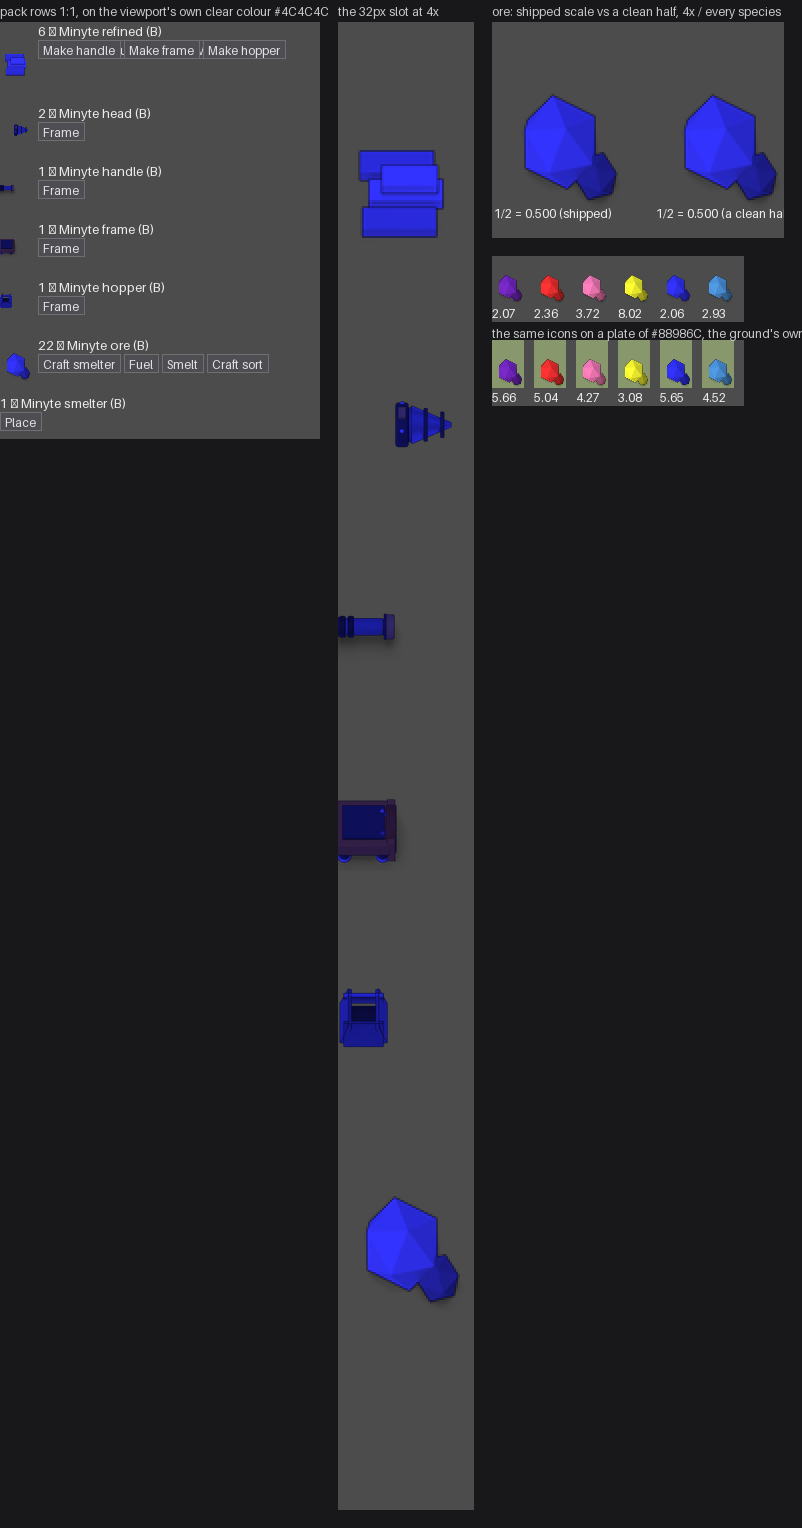
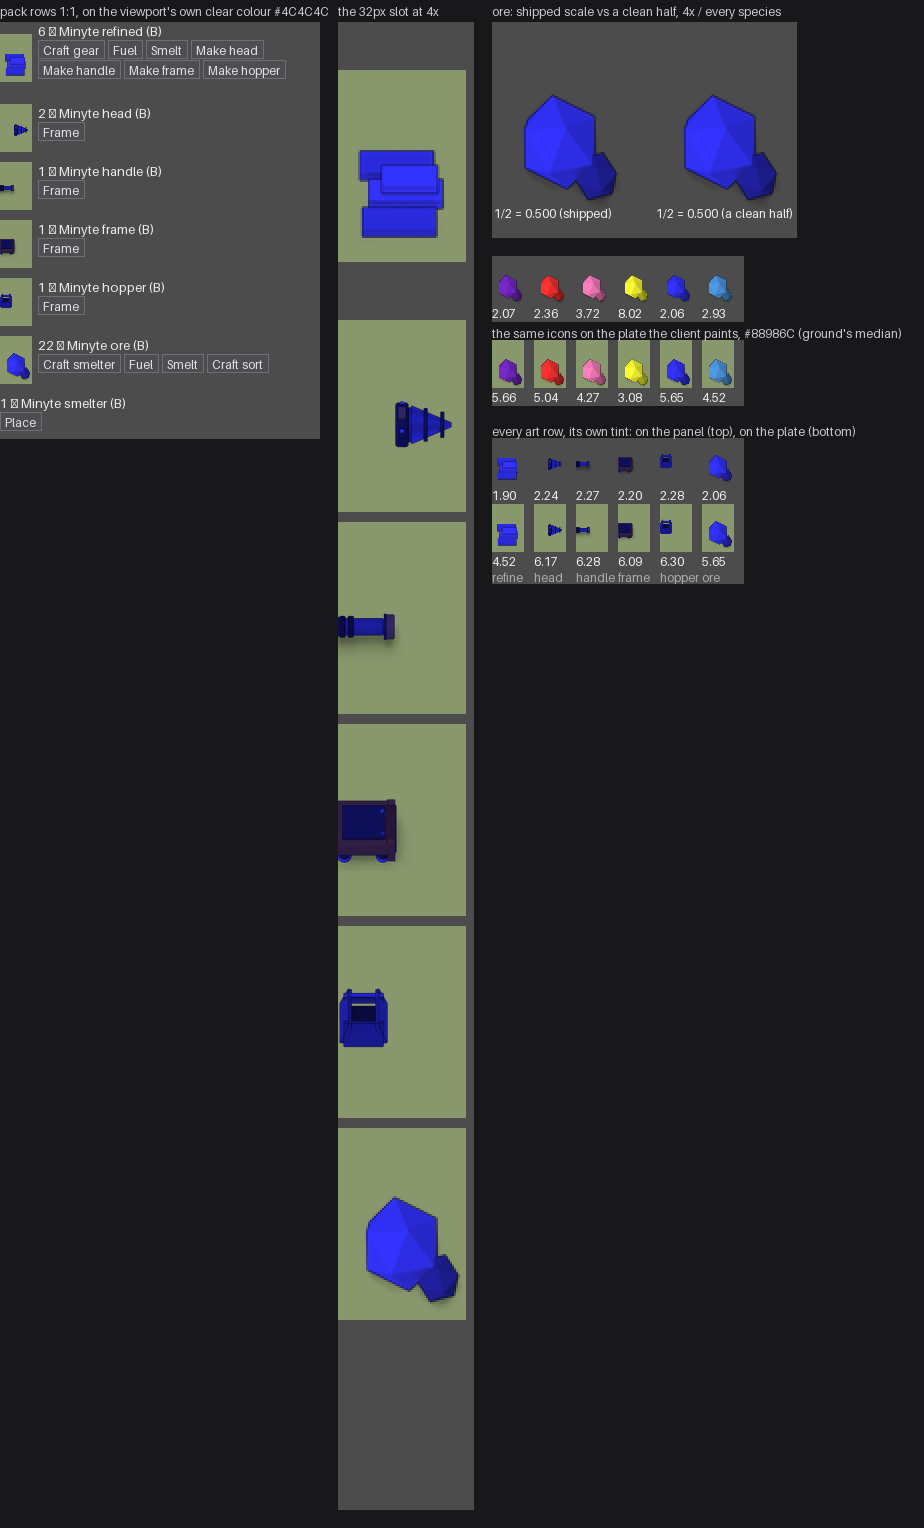
The review sheet shows the plate the client paints (ASSA-71)
Takes the plate colour from the layout probe instead of recomputing
ground.png's median, so the picture reports what the engine did like every
other number in the file; adds Maren's box 4 (every art row on both
surfaces, parts included); and fixes two things that made the sheet lie
about itself -- seven verbs drawn on top of each other on the refined row,
and three captions running off their panels' right edges.

Changed region(s): [[0.0, 0.0, 0.9975, 1.0]]

diff --git a/sim-game/art/pack_icon_sheet.py b/sim-game/art/pack_icon_sheet.py
@@ -77,6 +77,29 @@ def frame_of(entry):
     return sheet.crop((int(x), int(y), int(x + w), int(y + h)))
 
 
+def plate_of(entry):
+    """The slot plate the ENGINE painted behind this icon, or None when it painted none.
+
+    READ OFF THE LAYOUT JSON, NOT RECOMPUTED FROM `ground.png`. This script used to open the
+    ground sheet and take its median itself. That was honest while no plate existed -- it was
+    drawing a proposal -- and became a trap the moment one did, because it would have gone on
+    showing a correct-looking plate even if the client never read `ui_theme.json`, never applied
+    the StyleBoxFlat, or applied some other colour. The picture would have agreed with the
+    pipeline while disagreeing with the game. That is panel 3's stale-caption bug with the
+    halves swapped, and every other number in this file is already what the engine did.
+    """
+    h = entry["icon"].get("plate") or ""
+    if len(h) < 6:
+        return None
+    return tuple(int(h[i:i + 2], 16) for i in (0, 2, 4))
+
+
+def plate_rect_of(entry, row_h):
+    """The plate's laid-out size, falling back to the icon box when there is no plate."""
+    rect = entry["icon"].get("plate_rect") or []
+    return (float(rect[0]), float(rect[1])) if len(rect) == 2 else (ICON, float(row_h))
+
+
 def nearest_blit(dst, frame, tint, dest_x, dest_y, dest_w, dest_h, zoom=1):
     """Draw `frame` into `dst` the way a TextureRect with NEAREST does, tinted by `modulate`.
 
@@ -154,19 +177,40 @@ for r in ROWS:
         s = min(ICON / r["icon"]["frame"][0], rh / r["icon"]["frame"][1])
         assert abs(s - r["icon"]["scale"]) < 1e-6, (s, r["icon"]["scale"])
         frame = frame_of(r)
+        # THE SLOT PLATE, BEFORE THE ICON, so the ink composites over what it really sits on
+        # (ASSA-71). The plate is `SIZE_SHRINK_CENTER` in the row, so it is centred on the row's
+        # own centre -- which is the same centre the icon is drawn on, and why a 72px refined row
+        # still shows a 48px plate. Drawn first and not merely measured: an antialiased edge
+        # blends with its background, so measuring the ink over the clear colour and then
+        # claiming a plate was behind it would be a different picture from the one that ships.
+        base = BG
+        plate_c = plate_of(r)
+        if plate_c is not None:
+            pw, ph = plate_rect_of(r, rh)
+            py = y + (rh - ph) / 2.0
+            d.rectangle([0, int(round(py)), int(round(pw)) - 1, int(round(py + ph)) - 1],
+                        fill=plate_c)
+            base = plate_c
         ink = nearest_blit(column, frame, tint_of(r), (ICON - dw) / 2.0, y + (rh - dh) / 2.0, dw, dh)
-        report.append((r["line"], r["icon"], ink, ink_bbox(frame), frame.size))
+        report.append((r["line"], r["icon"], ink, ink_bbox(frame), frame.size, base))
         x = ICON + SEP
     else:
-        report.append((r["line"], None, [], None, None))
+        report.append((r["line"], None, [], None, None, BG))
     d.text((x, y + 1), r["line"], font=f13, fill=(235, 235, 235))
-    vx = x
+    # WRAP ONTO A SECOND LINE, which is what the row itself does. This used to reset `vx` to the
+    # left margin WITHOUT moving down, so a row with more verbs than fit drew them on top of each
+    # other: the refined row affords seven and only the last three survived, under a heading
+    # saying this panel is the pack as the engine draws it. The engine gives that row a height of
+    # 72 against everyone else's 48 precisely BECAUSE it takes two lines -- the layout JSON was
+    # carrying the evidence the picture was contradicting.
+    vx, vy = x, y + 18
     for verb in r["verbs"]:
         w = int(d.textlength(verb, font=f12)) + 10
         if vx + w > PANEL:
             vx = x
-        d.rectangle([vx, y + 18, vx + w, y + 36], fill=(78, 78, 82), outline=(110, 110, 115))
-        d.text((vx + 5, y + 21), verb, font=f12, fill=(225, 225, 230))
+            vy += 20
+        d.rectangle([vx, vy, vx + w, vy + 18], fill=(78, 78, 82), outline=(110, 110, 115))
+        d.text((vx + 5, vy + 3), verb, font=f12, fill=(225, 225, 230))
         vx += w + 4
     y += rh + 10
 
@@ -180,6 +224,14 @@ for r in ROWS:
     rh = int(r["row_size"][1])
     if "icon" in r:
         dw, dh = r["icon"]["drawn"]
+        # The plate at 4x too, or this panel shows the slot on a surface the game never draws.
+        plate_c = plate_of(r)
+        if plate_c is not None:
+            pw, ph = plate_rect_of(r, rh)
+            py = y + (rh - ph) / 2.0
+            ImageDraw.Draw(zoomed).rectangle(
+                [0, int(round(py * ZOOM)), int(round(pw * ZOOM)) - 1,
+                 int(round((py + ph) * ZOOM)) - 1], fill=plate_c)
         nearest_blit(zoomed, frame_of(r), tint_of(r), (ICON - dw) / 2.0, y + (rh - dh) / 2.0,
                      dw, dh, zoom=ZOOM)
     # IN SOURCE UNITS: `nearest_blit` multiplies by `zoom` itself, and adding zoomed pixels here
@@ -190,7 +242,14 @@ for r in ROWS:
 ore = next(r for r in ROWS if "ore" in r["line"])
 ore_frame = frame_of(ore)
 fw, fh = ore_frame.size
-cmp_w = 2 * int(ICON) * ZOOM + 36
+# WIDE ENOUGH FOR ITS OWN RIGHT-HAND LABEL, not just for the two gems. At 2*32*4+36 the panel was
+# 292px and "1/2 = 0.500 (a clean half)" starting at x=164 needed 294, so the sheet explaining the
+# shipped scale lost the last two characters of the explanation. Same bug as the sheet width, one
+# level down: a picture sized for the pictures and not for the words under them.
+CAP_RIGHT = "1/2 = 0.500 (a clean half)"
+_right_x = int(ICON) * ZOOM + 36
+cmp_w = max(2 * int(ICON) * ZOOM + 36,
+            _right_x + int(ImageDraw.Draw(Image.new("RGB", (1, 1))).textlength(CAP_RIGHT, font=f12)) + 4)
 cmp_h = 48 * ZOOM + 24
 compare = Image.new("RGB", (cmp_w, cmp_h), BG)
 nearest_blit(compare, ore_frame, tint_of(ore), 1.0, 1.0, ore["icon"]["drawn"][0],
@@ -210,8 +269,7 @@ dc.text((2, 46 * ZOOM),
          if _shipped and abs(_inverse - round(_inverse)) < 1e-4
          else "%.3f = 1/%.3f (shipped)" % (_shipped, _inverse)),
         font=f12, fill=(240, 240, 240))
-dc.text((int(ICON) * ZOOM + 36, 46 * ZOOM), "1/2 = 0.500 (a clean half)",
-        font=f12, fill=(240, 240, 240))
+dc.text((_right_x, 46 * ZOOM), CAP_RIGHT, font=f12, fill=(240, 240, 240))
 
 # ---------------------------------------------------- panel 4: every species, the same ore icon
 sp_w = (int(ICON) + 10) * len(TINTS)
@@ -231,11 +289,18 @@ for i, hexv in enumerate(TINTS):
 # ------------------------------------------- panel 5: the same icons on a PLATE of the rock they
 # were lit against. The sheets are drawn species-neutral ON LIGHT ROCK (ASSA-19/20) and every
 # measurement I have made of them composited them over light rock; the HUD panel is mid-grey, which
-# is a surface the art has never been judged on. The plate colour is READ FROM `ground.png` (its
-# median opaque pixel), not picked: it is literally the ground the game draws under everything.
-ground = Image.open(SPRITES / "ground.png").convert("RGBA")
-gpx = [q[:3] for q in list(ground.getdata()) if q[3] > 200]
-PLATE = tuple(sorted(c[i] for c in gpx)[len(gpx) // 2] for i in range(3))
+# is a surface the art has never been judged on. The plate colour is not picked: it is the ground's
+# own median, so the pack row and the map show the same object (Maren's ruling, ASSA-71).
+#
+# TAKEN FROM THE ENGINE NOW, not from `ground.png`. See `plate_of`.
+PLATE = plate_of(ore)
+PLATE_SHIPPED = PLATE is not None
+if PLATE is None:
+    # The engine painted no plate behind the icon it laid out. Fall back to what the PIPELINE
+    # ships so this panel still has a proposal to show -- and say which in the caption, because a
+    # panel captioned as the client's doing while showing a colour the client ignored is exactly
+    # the failure Limpet fixed in panel 3.
+    PLATE = tuple(int(v) for v in json.load(open(SPRITES / "ui_theme.json"))["pack_icon_plate_rgb"])
 plate = Image.new("RGB", (sp_w, sp_h), BG)
 dp = ImageDraw.Draw(plate)
 on_plate = []
@@ -249,38 +314,88 @@ for i, hexv in enumerate(TINTS):
     on_plate.append((hexv, cs))
     dp.text((x, 50), "%.2f" % cs[-1], font=f12, fill=(240, 240, 240))
 
+# ------------------------------------ panel 6: EVERY ART ROW, panel against plate (Maren, ASSA-71)
+# Panels 4 and 5 ask the plate question of ORE across six species. Maren's note on ASSA-71 says the
+# rows the plate has to work for are the ones nobody has measured: THE FOUR PART ICONS ARE THE
+# DARKEST THINGS ON THE PANEL, they were never in the swatch strip, and at 1:1 the frame, the hopper
+# and the new refined bar read as three dark boxes in a column. A plate that fixes ore and does
+# nothing for those three has not done the job it was ruled in for.
+#
+# ONE TINT FOR ALL OF THEM, the one the engine actually hands each row (`modulate`), so this strip
+# is the shipped pack and not six species of part. The species sweep is panels 4 and 5' job.
+art_rows = [r for r in ROWS if "icon" in r]
+CELL = int(ICON) + 10
+SWATCH = 48
+both_w = CELL * len(art_rows)
+both_h = 2 * (SWATCH + 18) + 14  # the last 14 is the kind label's own line, under both numbers
+both = Image.new("RGB", (both_w, both_h), BG)
+db = ImageDraw.Draw(both)
+per_row = []
+for i, r in enumerate(art_rows):
+    dw, dh = r["icon"]["drawn"]
+    fr, tint = frame_of(r), tint_of(r)
+    x = i * CELL
+    measured = []
+    for j, surface in enumerate((BG, PLATE)):
+        top = j * (SWATCH + 18)
+        db.rectangle([x, top, x + int(ICON) - 1, top + SWATCH - 1], fill=surface)
+        ink = nearest_blit(both, fr, tint, x + (ICON - dw) / 2.0, top + (SWATCH - dh) / 2.0, dw, dh)
+        cs = sorted(contrast(p, surface) for p in ink)
+        measured.append(cs)
+        db.text((x, top + SWATCH + 2), "%.2f" % cs[-1], font=f12, fill=(240, 240, 240))
+    # The kind, not the whole sentence: "22 x Minyte ore (B)" does not fit a 42px cell.
+    db.text((x, 2 * (SWATCH + 18)), r["line"].split()[-2][:6], font=f12, fill=(170, 170, 175))
+    per_row.append((r["line"], measured[0], measured[1]))
+
 # ---------------------------------------------------------------------------- assemble
 GAP = 18
 TITLE = 22
-width = PANEL + GAP + zoom_w + GAP + max(cmp_w, sp_w) + GAP
-height = TITLE + max(col_h, zoom_h, cmp_h + GAP + sp_h + GAP + sp_h) + GAP
+# THE CAPTIONS, GATHERED BEFORE THE WIDTH IS DECIDED, because they are what sets it. Three of
+# these ran off the right edge of the sheet -- "1/2 = 0.500 (a clean ha", "the ground's own
+# media" -- so a panel explaining itself was itself unreadable. The width is now DERIVED from the
+# longest caption rather than from the pictures alone and hoping the words fit under them.
+CAP_PLATE = (("the same icons on the plate the client paints, #%02X%02X%02X (ground's median)"
+              if PLATE_SHIPPED else
+              "PROPOSAL: the client painted NO plate. #%02X%02X%02X is from ui_theme.json") % PLATE)
+CAP_BOTH = "every art row, its own tint: on the panel (top), on the plate (bottom)"
+CAP_CMP = "ore: shipped scale vs a clean half, 4x / every species"
+_cap_w = max(int(ImageDraw.Draw(Image.new("RGB", (1, 1))).textlength(c, font=f12))
+             for c in (CAP_PLATE, CAP_BOTH, CAP_CMP)) + 4
+width = PANEL + GAP + zoom_w + GAP + max(cmp_w, sp_w, both_w, _cap_w) + GAP
+height = TITLE + max(col_h, zoom_h,
+                     cmp_h + GAP + sp_h + GAP + sp_h + GAP + both_h + 14) + GAP
 sheet = Image.new("RGB", (width, height), (24, 24, 26))
 sheet.paste(column, (0, TITLE))
 sheet.paste(zoomed, (PANEL + GAP, TITLE))
 sheet.paste(compare, (PANEL + GAP + zoom_w + GAP, TITLE))
 sheet.paste(species, (PANEL + GAP + zoom_w + GAP, TITLE + cmp_h + GAP))
 sheet.paste(plate, (PANEL + GAP + zoom_w + GAP, TITLE + cmp_h + GAP + sp_h + GAP))
+_both_y = TITLE + cmp_h + GAP + sp_h + GAP + sp_h + GAP + 14
+sheet.paste(both, (PANEL + GAP + zoom_w + GAP, _both_y))
 dt = ImageDraw.Draw(sheet)
-dt.text((PANEL + GAP + zoom_w + GAP, TITLE + cmp_h + GAP + sp_h + 4),
-        "the same icons on a plate of #%02X%02X%02X, the ground's own median" % PLATE,
+dt.text((PANEL + GAP + zoom_w + GAP, TITLE + cmp_h + GAP + sp_h + 4), CAP_PLATE,
         font=f12, fill=(200, 200, 205))
+dt.text((PANEL + GAP + zoom_w + GAP, _both_y - 14), CAP_BOTH, font=f12, fill=(200, 200, 205))
 dt.text((0, 4), "pack rows 1:1, on the viewport's own clear colour #%02X%02X%02X" % BG,
         font=f12, fill=(200, 200, 205))
 dt.text((PANEL + GAP, 4), "the 32px slot at 4x", font=f12, fill=(200, 200, 205))
-dt.text((PANEL + GAP + zoom_w + GAP, 4), "ore: shipped scale vs a clean half, 4x / every species",
-        font=f12, fill=(200, 200, 205))
+dt.text((PANEL + GAP + zoom_w + GAP, 4), CAP_CMP, font=f12, fill=(200, 200, 205))
 OUT.parent.mkdir(parents=True, exist_ok=True)
 sheet.save(OUT)
 
 # ---------------------------------------------------------------------------- the numbers
 print("background %s, luminance %.4f" % (BG, luminance(BG)))
 print("%-24s %-14s %-9s %-11s %-13s %s"
-      % ("row", "drawn", "scale", "ink bbox", "ink drawn px", "body contrast vs bg: max / median"))
-for line, icon, ink, bbox, size in report:
+      % ("row", "drawn", "scale", "ink bbox", "ink drawn px",
+         "body contrast vs WHAT IS BEHIND IT: max / median"))
+for line, icon, ink, bbox, size, base in report:
     if icon is None:
         print("%-24s %s" % (line, "NO ICON"))
         continue
-    cs = sorted(contrast(p, BG) for p in ink)
+    # AGAINST WHAT THE ROW ACTUALLY SITS ON. This used to be `BG` for every row, which was the
+    # same thing while nothing was drawn behind an icon. With a plate it is not, and a column
+    # reporting plated icons against the clear colour would understate every one of them.
+    cs = sorted(contrast(p, base) for p in ink)
     bw, bh = bbox[2] - bbox[0], bbox[3] - bbox[1]
     print("%-24s %-14s %-9.5f %-11s %-13s %.2f / %.2f  under 3:1 %d%%"
           % (line, "%gx%g" % tuple(icon["drawn"]), icon["scale"],
@@ -300,6 +415,59 @@ print("panel #%02X%02X%02X spread (max contrast, worst..best): %.2f..%.2f = %.1f
 print("plate #%02X%02X%02X spread (max contrast, worst..best): %.2f..%.2f = %.1fx"
       % (PLATE + (min(c[-1] for _, c in on_plate), max(c[-1] for _, c in on_plate),
          max(c[-1] for _, c in on_plate) / min(c[-1] for _, c in on_plate))))
+# MAREN'S BAR, STATED AS SHE STATED IT (ASSA-71): not a floor to clear but a DOMINANCE TEST -- a
+# candidate plate must BOTH close the max/min spread AND raise the minimum, and one without the
+# other is the wrong colour. Printed as a verdict so nobody has to do the comparison by eye, and
+# computed from the two tables above rather than asserted.
+_sn = [c[-1] for _, c in per_species]
+_sp = [c[-1] for _, c in on_plate]
+print("DOMINANCE TEST, ore across six species (both halves must move): spread %s (%.1fx -> %.1fx),"
+      " floor %s (%.2f -> %.2f)"
+      % ("CLOSES" if max(_sp) / min(_sp) < max(_sn) / min(_sn) else "does NOT close",
+         max(_sn) / min(_sn), max(_sp) / min(_sp),
+         "RISES" if min(_sp) > min(_sn) else "does NOT rise", min(_sn), min(_sp)))
+# WHAT THE TEST BUYS AND WHAT IT COSTS, named rather than left to be spotted in the table. "Even
+# beats high" is Maren's ruling and it necessarily means the brightest species gets WORSE: it was
+# only ever the brightest because the panel is dark. Printed because the floor rising is the
+# headline and this is the bill, and a summary that shows only the headline is a sales pitch.
+_worst = min(zip(per_species, on_plate), key=lambda t: t[1][1][-1])
+_hurt = min(zip(per_species, on_plate), key=lambda t: t[1][1][-1] - t[0][1][-1])
+print("  the plate's own worst species is #%s at %.2f (it was %.2f on the panel);"
+      " the species it COSTS most is #%s, %.2f -> %.2f, and %d%% of its body is under 3:1 there"
+      % (_worst[0][0], _worst[1][1][-1], _worst[0][1][-1],
+         _hurt[0][0], _hurt[0][1][-1], _hurt[1][1][-1],
+         round(100 * sum(1 for c in _hurt[1][1] if c < 3.0) / len(_hurt[1][1]))))
+print()
+# MAREN'S BOX 4: the part icons measured too, not just ore -- "they are darker than any ore and
+# were not in the strip", and at 1:1 the frame, the hopper and the refined bar read as three dark
+# boxes. What the plate has to do for them is make them LEGIBLE.
+#
+# AND NOT HER DOMINANCE TEST, WHICH IS A SPECIES ARGUMENT AND DOES NOT TRANSFER HERE. The reason
+# the spread had to close across species is that "every species is the same kind of thing and the
+# HUD must not rank them" -- six interchangeable things must not look like a lantern and a
+# silhouette. Kinds are NOT interchangeable: ore and a frame are different objects and the HUD is
+# entitled to tell them apart. So the max/min ratio across kinds is reported below as a number and
+# NOT scored as a pass or a fail, because scoring it would be me quietly re-pointing someone else's
+# bar at a population it was not written about. Maren's call, not mine.
+#
+# (For the record, the ratio across kinds WIDENS, 1.2x -> 1.4x, and that is not a defect: on the
+# panel all six rows sat in 1.90..2.28 because they were uniformly illegible. A tight spread of
+# uniformly bad is what the plate is supposed to break.)
+print("EVERY ART ROW on the two surfaces (Maren's box 4). Body = alpha >= 200.")
+print("%-24s %-24s %s" % ("row", "on the panel", "on the plate"))
+for line, cs, ps in per_row:
+    print("%-24s max %5.2f median %5.2f   max %5.2f median %5.2f"
+          % (line[:24], cs[-1], cs[len(cs) // 2], ps[-1], ps[len(ps) // 2]))
+_pn = [c[-1] for _, c, _ in per_row]
+_pl = [p[-1] for _, _, p in per_row]
+print("all art rows, panel: %.2f..%.2f = %.1fx   plate: %.2f..%.2f = %.1fx"
+      % (min(_pn), max(_pn), max(_pn) / min(_pn),
+         min(_pl), max(_pl), max(_pl) / min(_pl)))
+print("the floor across kinds %s: %.2f -> %.2f. Worst-lit row on the panel: %s."
+      % ("RISES" if min(_pl) > min(_pn) else "does NOT rise", min(_pn), min(_pl),
+         min(per_row, key=lambda t: t[1][-1])[0]))
+print("the max/min ratio across kinds goes %.1fx -> %.1fx, REPORTED AND NOT SCORED (see source)."
+      % (max(_pn) / min(_pn), max(_pl) / min(_pl)))
 print()
 # WHICH SOURCE ROWS AND COLUMNS SURVIVE. A scale of 1/2 or 1/4 keeps every nth; 15/32 does not.
 #
